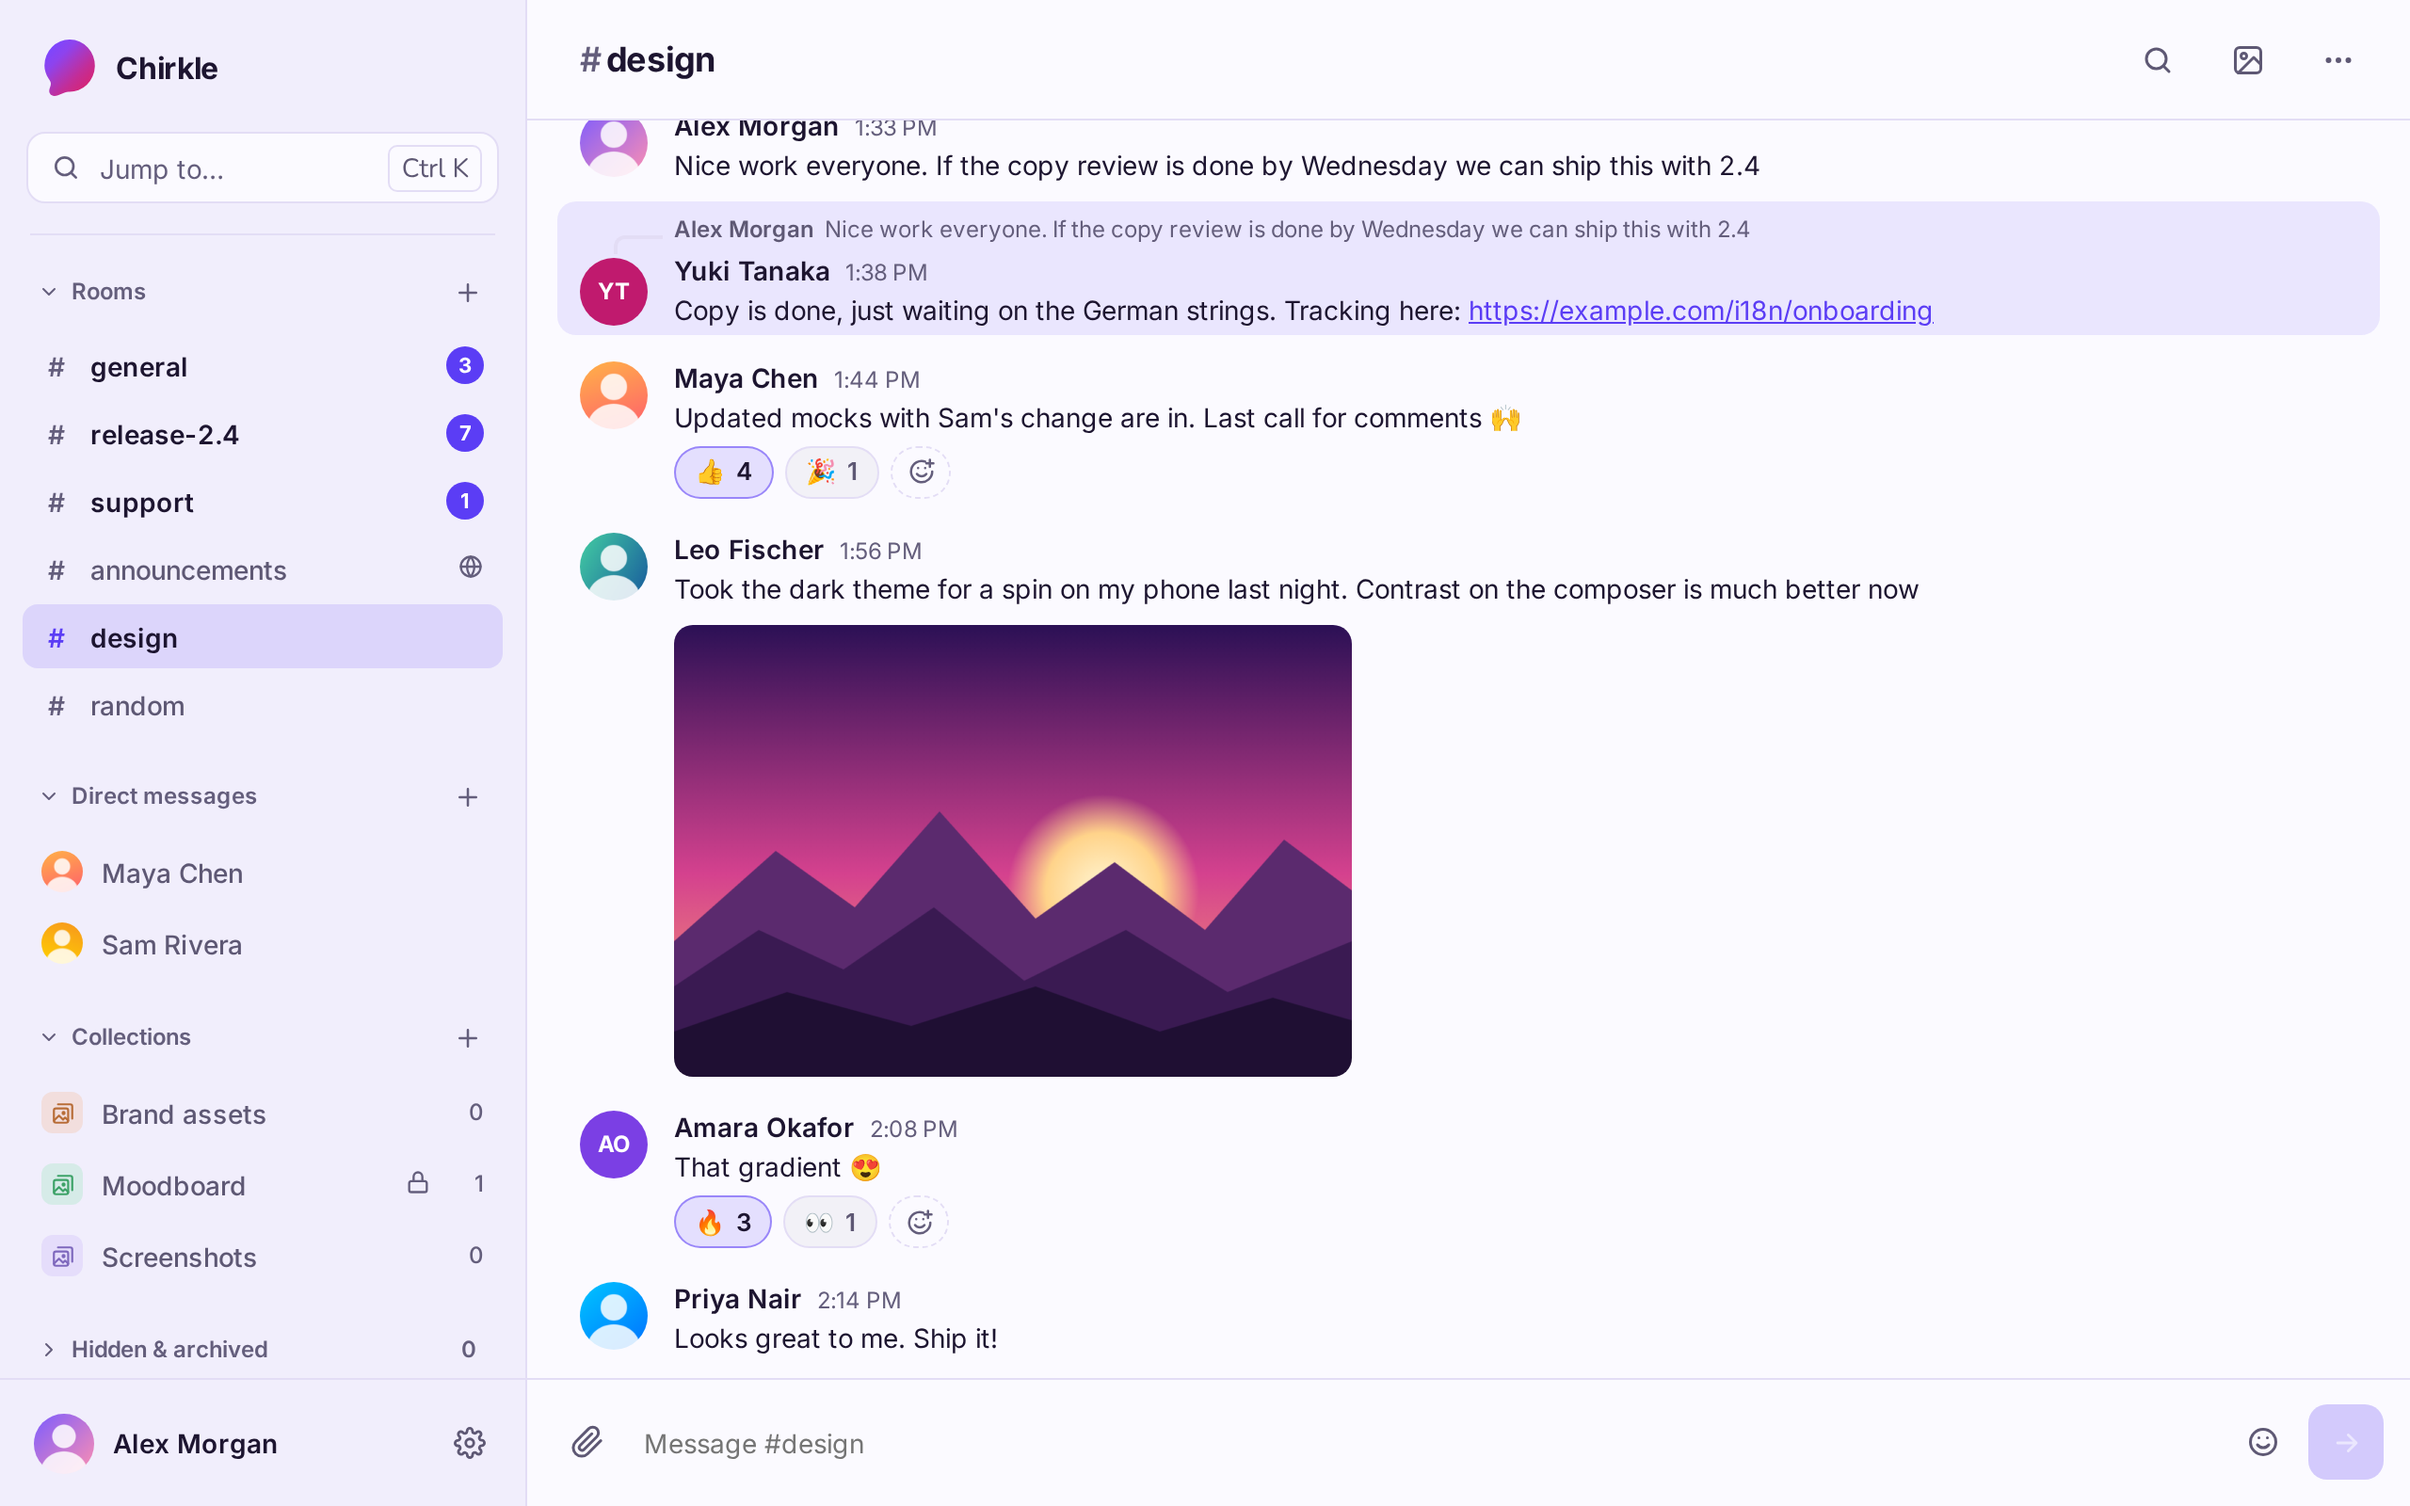
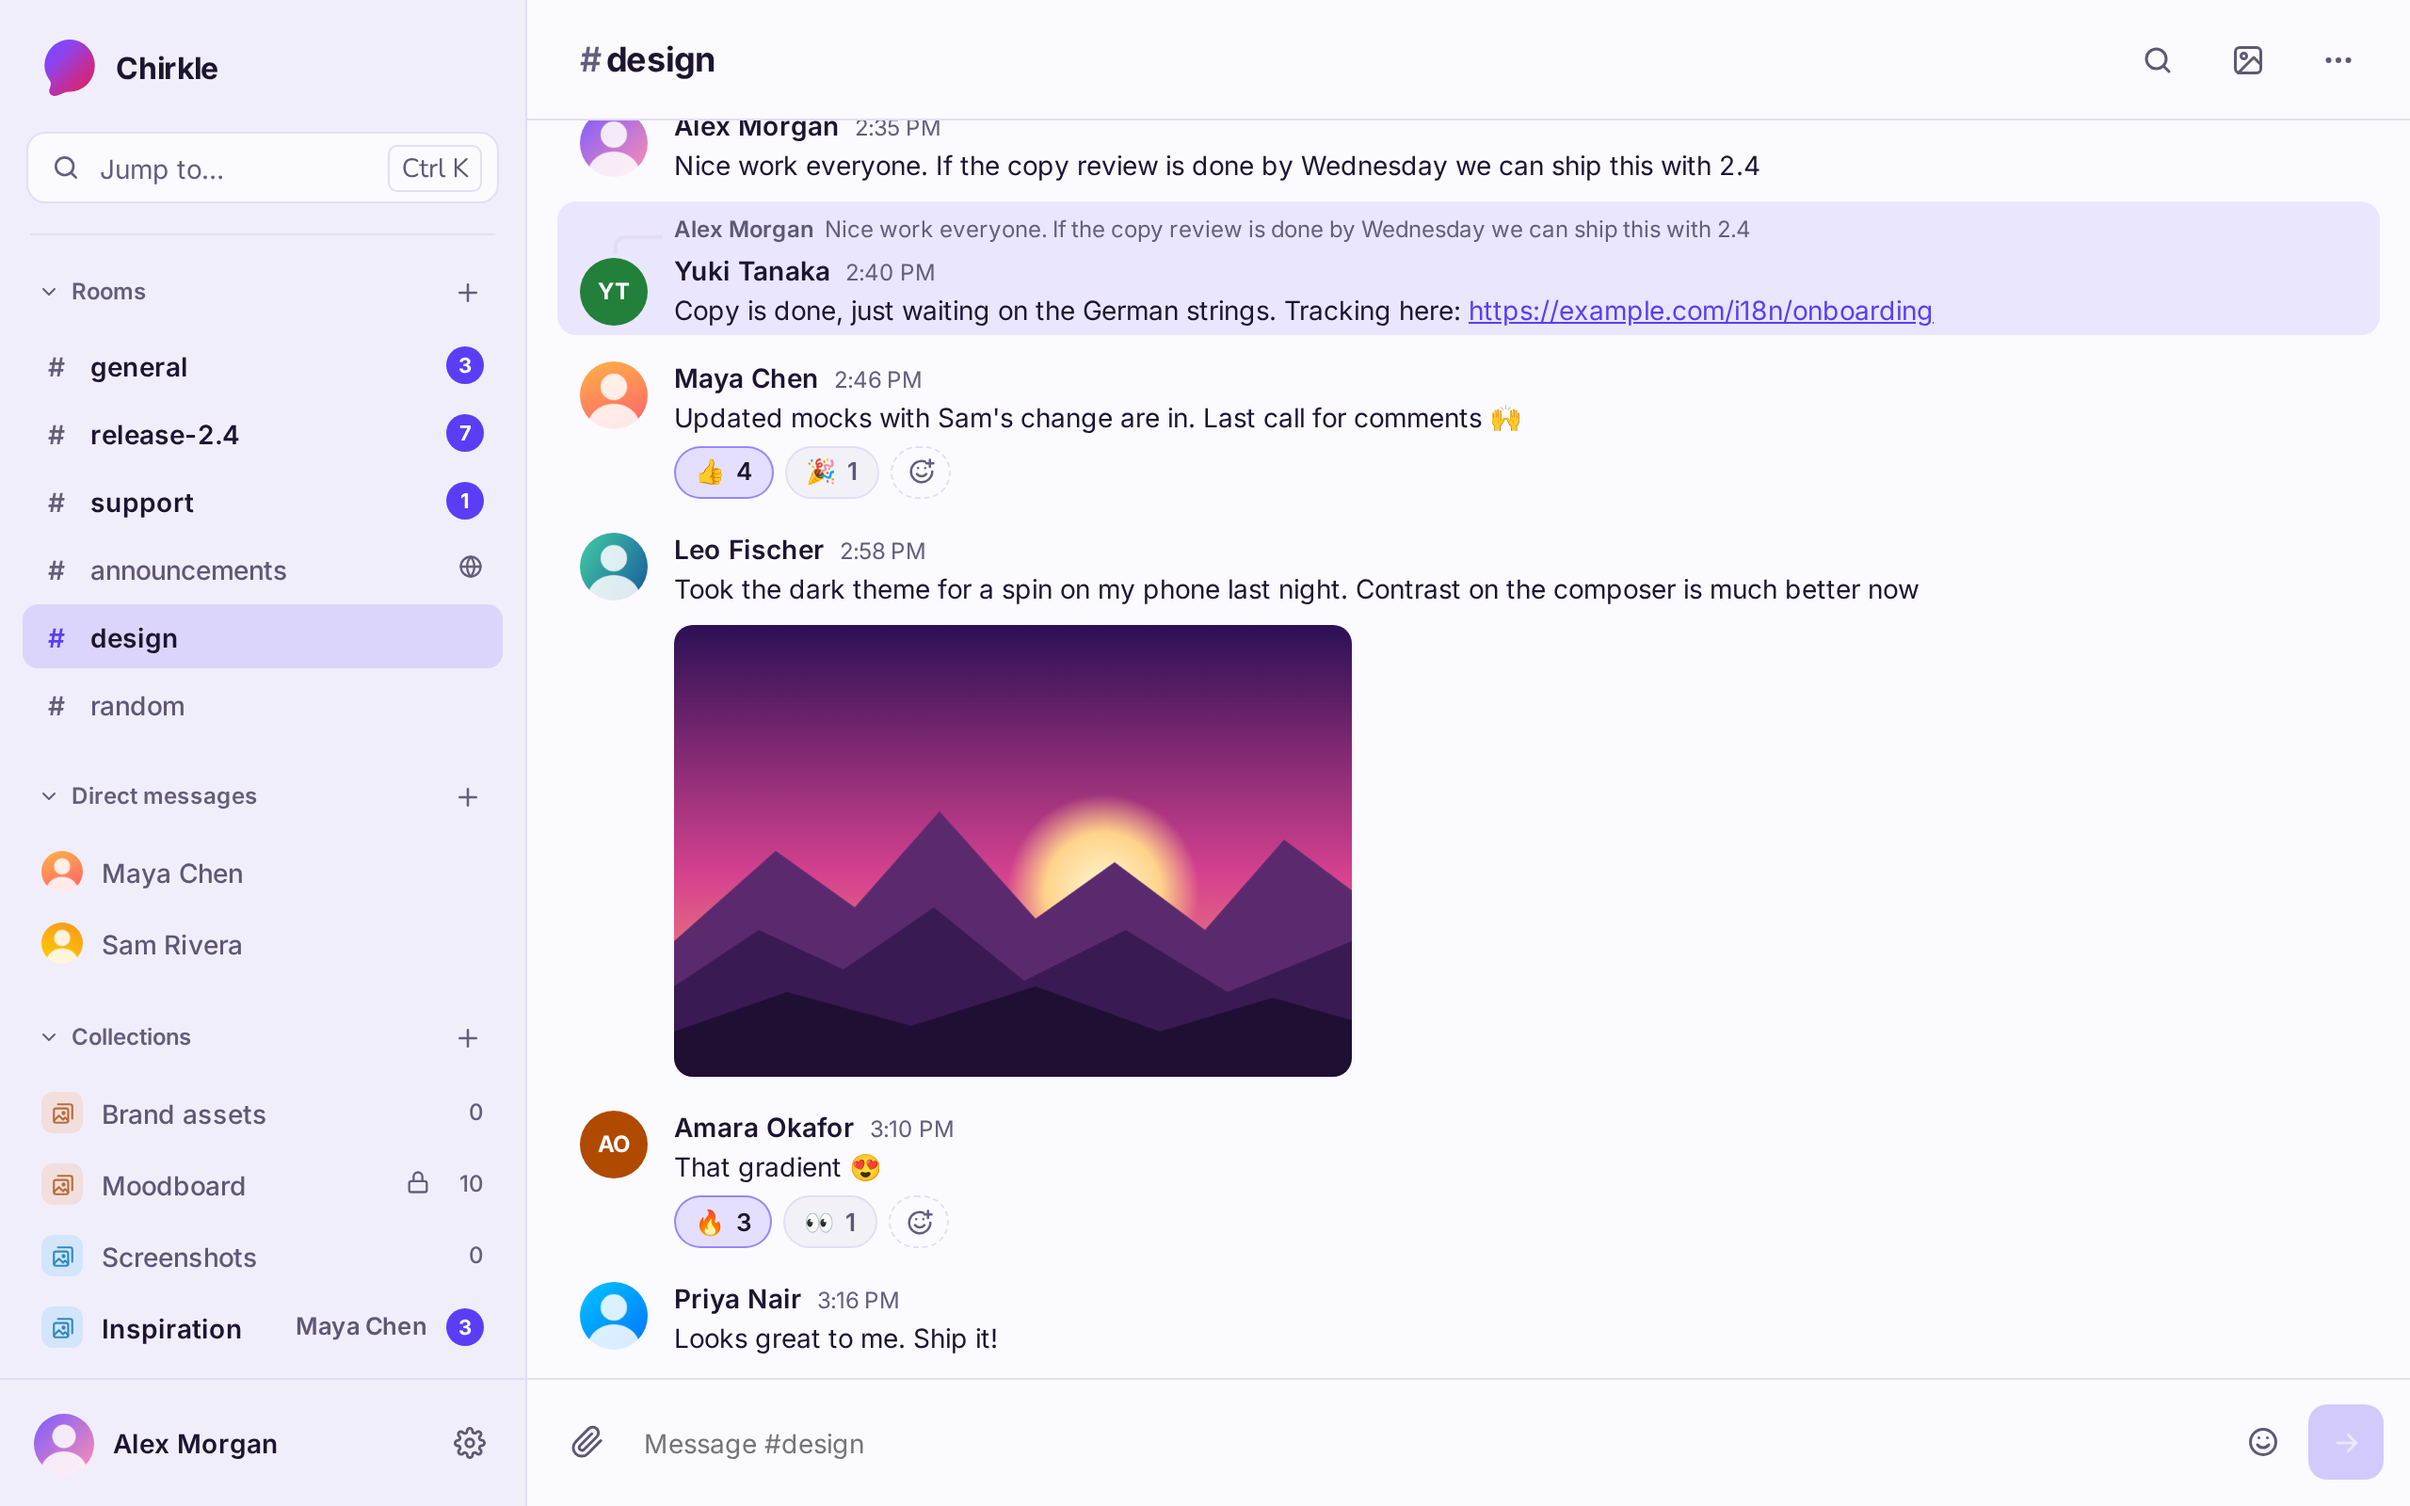
Screenshots of collections

diff --git a/scripts/screenshots.ts b/scripts/screenshots.ts
@@ -1,5 +1,6 @@
-// README screenshots: a throwaway server (as the tests start one) filled with made-up people, rooms and messages, then
-// the built app (pb_public/) photographed in Chromium, light and dark, into docs/.
+// README screenshots: a throwaway server (as the tests start one) filled with made-up people, rooms, messages and
+// collections, then the built app (pb_public/) photographed in Chromium, light and dark, into docs/: a room
+// (screenshot-*.png) and a collection's page (collections-*.png).
 //
 //   npm run build && npm run screenshots
 //
@@ -159,6 +160,22 @@ const DMS: { with: string; lines: Line[] }[] = [
   { with: "maya", lines: [{ by: "maya", ago: 20, text: "Sent you the deck" }] },
 ];
 
+/** Made-up pictures for the collections: hills under a sky, or soft shapes on a ground. */
+const SCENES: { name: string; sky: string[]; sun: string; hills?: string[]; shapes?: string[] }[] = [
+  { name: "lagoon", sky: ["#0f3057", "#00587a", "#7fd1c7"], sun: "#e7fff9", hills: ["#00587a", "#08435e", "#04293a"] },
+  { name: "meadow", sky: ["#a8e6ff", "#d9f5ff", "#fff7d6"], sun: "#fffbe8", hills: ["#9ccc65", "#689f38", "#33691e"] },
+  { name: "terracotta", sky: ["#f6d5b8"], sun: "#f0a35e", shapes: ["#d9734e", "#9c4a3a", "#f2c094", "#5e7d6b"] },
+  { name: "dunes", sky: ["#ffd89b", "#f7a35c", "#e86f51"], sun: "#fff3c4", hills: ["#e9a15a", "#c97b3f", "#8e4f2a"] },
+  { name: "blueprint", sky: ["#e8eefc"], sun: "#4c6ef5", shapes: ["#364fc7", "#91a7ff", "#ffd43b", "#1c2a5c"] },
+  { name: "fjord", sky: ["#1b2a49", "#465881", "#c9d1e5"], sun: "#f5f7ff", hills: ["#3a4a6b", "#26334f", "#121a2c"] },
+  { name: "sorbet", sky: ["#ffe3ec"], sun: "#ff8fab", shapes: ["#ffb3c6", "#a0c4ff", "#caffbf", "#ffd6a5"] },
+  { name: "highlands", sky: ["#cfd9df", "#e2ebf0", "#f5f0e1"], sun: "#ffffff", hills: ["#8fa38a", "#62775e", "#3b4a39"] },
+  { name: "ember", sky: ["#2d0a0a", "#7a1f1f", "#ff7a3d"], sun: "#ffd8a8", hills: ["#5a1515", "#3a0d0d", "#1a0505"] },
+  { name: "moss", sky: ["#eef3e2"], sun: "#7a9e5a", shapes: ["#4f6f3a", "#a3c585", "#e0b75a", "#2f4426"] },
+  { name: "aurora", sky: ["#04151f", "#0b4f4a", "#3ddc97"], sun: "#e0fff1", hills: ["#0d3b3a", "#082827", "#031312"] },
+  { name: "citrus", sky: ["#fff4cc"], sun: "#ffb703", shapes: ["#fb8500", "#8ecae6", "#219ebc", "#023047"] },
+];
+
 const pb = await startPocketBase({ publicDir: join(root, "pb_public"), fixtureRoute: true });
 let browser: Browser | undefined;
 try {
@@ -230,39 +247,62 @@ try {
     })),
   ]);
 
-  // ---- Alex's collections, the photo saved to one so the sidebar shows a count
+  // ---- collections: Alex's Moodboard (the room's photo and made-up pictures over two months), and Maya's public
+  // Inspiration, which Alex follows, with three pictures new since
   const json = { "content-type": "application/json" };
-  const auth = await fetch(`${pb.url}/api/collections/users/auth-with-password`, {
-    method: "POST",
-    headers: json,
-    body: JSON.stringify({ identity: "alex@example.com", password: PASSWORD }),
-  });
-  const asAlex = { ...json, authorization: ((await auth.json()) as { token: string }).token };
+  const token = async (key: string) => {
+    const auth = await fetch(`${pb.url}/api/collections/users/auth-with-password`, {
+      method: "POST",
+      headers: json,
+      body: JSON.stringify({ identity: `${key}@example.com`, password: PASSWORD }),
+    });
+    return { ...json, authorization: ((await auth.json()) as { token: string }).token };
+  };
+  const asAlex = await token("alex");
+  const asMaya = await token("maya");
+  async function call<T>(headers: Record<string, string>, path: string, body: unknown): Promise<T> {
+    const res = await fetch(`${pb.url}${path}`, { method: "POST", headers, body: JSON.stringify(body) });
+    if (!res.ok) throw new Error(`${path}: ${res.status} ${await res.text()}`);
+    return (await res.json()) as T;
+  }
+  const create = (headers: Record<string, string>, owner: string, name: string, isPublic: boolean) =>
+    call<{ id: string }>(headers, "/api/collections/collections/records", { owner, name, public: isPublic }).then((c) => c.id);
+  const itemTimes: { id: string; at: number }[] = [];
+  /** Uploads SCENES[i]; `ago` (minutes) backdates it, otherwise it is new now. */
+  async function upload(headers: Record<string, string>, collection: string, i: number, ago?: number) {
+    const form = new FormData();
+    form.set("collection", collection);
+    form.set("file", new File([await render(browser!, sceneHtml(i), 1200, 900)], `${SCENES[i]!.name}.png`, { type: "image/png" }));
+    const res = await fetch(`${pb.url}/api/chat/items`, { method: "POST", headers: { authorization: headers.authorization! }, body: form });
+    if (!res.ok) throw new Error(`uploading ${SCENES[i]!.name}: ${res.status} ${await res.text()}`);
+    const { id } = (await res.json()) as { id: string };
+    if (ago !== undefined) itemTimes.push({ id, at: now - ago * MINUTE });
+  }
+
   const shot = await fetch(`${pb.url}/api/collections/messages/records?perPage=1&filter=${encodeURIComponent("files ~ 'dusk'")}`, {
     headers: asAlex,
   });
   const [withPhoto] = ((await shot.json()) as { items: { id: string; files: string[] }[] }).items;
-  for (const [name, isPublic] of [
-    ["Moodboard", false],
-    ["Screenshots", true],
-    ["Brand assets", true],
-  ] as const) {
-    const res = await fetch(`${pb.url}/api/collections/collections/records`, {
-      method: "POST",
-      headers: asAlex,
-      body: JSON.stringify({ owner: alex, name, public: isPublic }),
-    });
-    const { id } = (await res.json()) as { id: string };
-    if (!res.ok) throw new Error(`collection ${name}: ${res.status} ${JSON.stringify({ id })}`);
-    if (name !== "Moodboard") continue;
-    if (!withPhoto) throw new Error("no message with the photo to save");
-    const saved = await fetch(`${pb.url}/api/chat/items`, {
-      method: "POST",
-      headers: asAlex,
-      body: JSON.stringify({ collection: id, message: withPhoto.id, file: withPhoto.files[0] }),
-    });
-    if (!saved.ok) throw new Error(`saving the photo: ${saved.status} ${await saved.text()}`);
-  }
+  if (!withPhoto) throw new Error("no message with the photo to save");
+  const moodboard = await create(asAlex, alex, "Moodboard", false);
+  await create(asAlex, alex, "Screenshots", true);
+  await create(asAlex, alex, "Brand assets", true);
+  const DAY = 24 * 60;
+  for (let i = 0; i < 9; i++) await upload(asAlex, moodboard, i, (i < 7 ? 30 - i * 2 : 11 - i) * DAY);
+  const saved = await call<{ id: string }>(asAlex, "/api/chat/items", {
+    collection: moodboard,
+    message: withPhoto.id,
+    file: withPhoto.files[0],
+  });
+  itemTimes.push({ id: saved.id, at: now - 19 * MINUTE });
+  const inspiration = await create(asMaya, ids.get("maya")!, "Inspiration", true);
+  await upload(asMaya, inspiration, 9, 3 * DAY);
+  await call(asAlex, "/api/chat/subs", { collection: inspiration, on: true });
+  for (const i of [10, 11, 0]) await upload(asMaya, inspiration, i);
+  await runSql(
+    pb.url,
+    itemTimes.map(({ id, at }) => ({ sql: "UPDATE collection_items SET created = {:at} WHERE id = {:id}", params: { id, at: toPb(at) } })),
+  );
 
   // ---- photographs
   await mkdir(OUT, { recursive: true });
@@ -288,8 +328,16 @@ try {
     await page.waitForLoadState("networkidle");
     await page.mouse.move(0, 0);
     await page.screenshot({ path: join(OUT, `screenshot-${scheme}.png`) });
-    await ctx.close();
     console.log(`docs/screenshot-${scheme}.png`);
+
+    await page.goto(`${pb.url}/c/${moodboard}`);
+    await page.locator(".coll-cell img").nth(9).waitFor();
+    await page.waitForFunction(() => [...document.querySelectorAll<HTMLImageElement>(".coll-cell img")].every((i) => i.complete));
+    await page.waitForLoadState("networkidle");
+    await page.mouse.move(0, 0);
+    await page.screenshot({ path: join(OUT, `collections-${scheme}.png`) });
+    await ctx.close();
+    console.log(`docs/collections-${scheme}.png`);
   }
 } finally {
   await browser?.close();
@@ -336,6 +384,26 @@ function avatarHtml([a, b, angle]: [string, string, number]): string {
   return `<body style="margin:0;width:256px;height:256px;background:linear-gradient(${angle}deg,${a},${b});overflow:hidden">
 <div style="position:absolute;left:78px;top:46px;width:100px;height:100px;border-radius:50%;background:rgb(255 255 255/.85)"></div>
 <div style="position:absolute;left:28px;top:160px;width:200px;height:180px;border-radius:50%;background:rgb(255 255 255/.85)"></div></body>`;
+}
+
+/** SCENES[i] as a 1200×900 page. */
+function sceneHtml(i: number): string {
+  const { sky, sun, hills, shapes } = SCENES[i]!;
+  const stops = sky.map((c, k) => `<stop offset="${sky.length > 1 ? k / (sky.length - 1) : 0}" stop-color="${c}"/>`).join("");
+  const x = 300 + ((i * 263) % 600);
+  const body = hills
+    ? `<circle cx="${x}" cy="${380 + (i % 3) * 40}" r="${110 + (i % 4) * 20}" fill="${sun}" opacity=".9"/>
+<path d="M0 ${560 - (i % 3) * 30} L${180 + i * 7} 420 L340 520 L${520 - i * 5} 360 L700 540 L860 430 L1020 560 L1200 440 V900 H0Z" fill="${hills[0]}"/>
+<path d="M0 700 L160 600 L330 670 L500 560 L690 690 L870 600 L1050 700 L1200 620 V900 H0Z" fill="${hills[1]}"/>
+<path d="M0 800 L220 730 L450 790 L680 720 L900 800 L1100 740 L1200 780 V900 H0Z" fill="${hills[2]}"/>`
+    : `<circle cx="${x}" cy="330" r="190" fill="${sun}"/>
+<rect x="${120 + (i % 2) * 520}" y="420" width="440" height="360" rx="220" fill="${shapes![0]}"/>
+<circle cx="${900 - (i % 2) * 560}" cy="620" r="170" fill="${shapes![1]}"/>
+<rect x="${480 + (i % 3) * 60}" y="140" width="210" height="210" rx="36" fill="${shapes![2]}" transform="rotate(18 585 245)"/>
+<path d="M0 820 Q300 740 600 820 T1200 820 V900 H0Z" fill="${shapes![3]}"/>`;
+  return `<body style="margin:0"><svg width="1200" height="900" xmlns="http://www.w3.org/2000/svg">
+<defs><linearGradient id="sky" x1="0" y1="0" x2="0" y2="1">${stops}</linearGradient></defs>
+<rect width="1200" height="900" fill="url(#sky)"/>${body}</svg></body>`;
 }
 
 /** A made-up dusk landscape, standing in for a photo. */

diff --git a/README.md b/README.md
@@ -41,6 +41,11 @@ A small, fast, real-time group chat. One [PocketBase](https://pocketbase.io) bin
 - A native Android app (Kotlin, Jetpack Compose) with the same features, notifications and a 3 MB download — see
   [Android app](#android-app)
 
+<picture>
+  <source media="(prefers-color-scheme: dark)" srcset="docs/collections-dark.png">
+  <img alt="A collection in Chirkle: the private Moodboard's pictures by month, with Upload, Rename and Make public; the sidebar lists your collections with their counts and a followed one with 3 new" src="docs/collections-light.png">
+</picture>
+
 Design: [`docs/DESIGN.md`](docs/DESIGN.md) · Android app: [`docs/ANDROID.md`](docs/ANDROID.md) · QA: [`docs/QA.md`](docs/QA.md) · Refactoring plan: [`docs/REFACTOR.md`](docs/REFACTOR.md) · Archived plans: [MVP build](docs/history/BUILD_PLAN.md), [avatars, DMs, attachments](docs/history/NEXT_FEATURES_PLAN.md)
 
 ## Requirements
@@ -98,7 +103,7 @@ The PocketBase admin UI is at http://127.0.0.1:8090/_/ (create a superuser with
 | `npm run test:int` | Integration tests: schema, API rules, hooks, realtime, pagination |
 | `npm run test:e2e` | Playwright end-to-end tests against the production build |
 | `npm run schema:snapshot` | Rewrite `docs/schema.snapshot.json` (every collection's API rules, fields and indexes, and the rate limits) after a migration changes them; `test:int` fails while it is out of date |
-| `npm run screenshots` | Rewrite the README screenshots (`docs/screenshot-*.png`): a throwaway server with made-up people and messages, photographed in Chromium after `npm run build` |
+| `npm run screenshots` | Rewrite the README screenshots (`docs/screenshot-*.png`, `docs/collections-*.png`): a throwaway server with made-up people, messages and collections, photographed in Chromium after `npm run build` |
 | `npm run check` | typecheck + lint + lint:sinks + test + test:int + build (what CI runs before e2e) |
 
 Every test run starts its own PocketBase on a free port with a temp data dir — nothing to clean up, and no fakes
